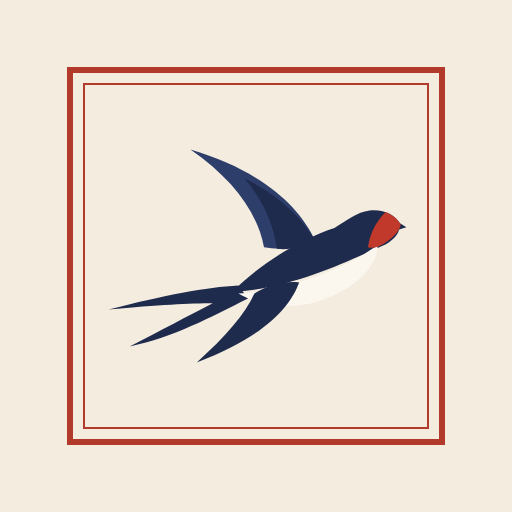
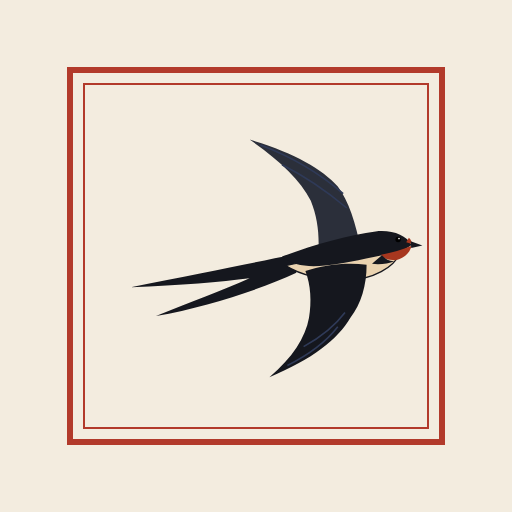
Новая ласточка: полёт с крыльями в размахе, чёрная спина, охристое брюшко; иконки; words-v15

Changed region(s): [[0.2188, 0.2812, 0.8125, 0.75]]

diff --git a/index.html b/index.html
@@ -17,15 +17,20 @@
 <title>Живые слова</title>
 </head>
 <body>
-<!-- эмблема: ласточка-касатка в полёте (тёмно-синяя спина, белое брюшко, красная маска) -->
-<svg width="0" height="0" style="position:absolute" aria-hidden="true"><symbol id="swallow" viewBox="0 0 190 135">
-  <path style="fill:var(--sw-back)" d="M84 86 C64 87 38 92 3 101 C34 98 54 97 68 97 C52 105 36 114 16 124 C44 118 66 106 90 94 Z"/>
-  <path style="fill:var(--sw-back2)" d="M132 58 C122 36 98 14 54 1 C80 19 96 40 100 62 C112 64 122 62 132 58 Z"/>
-  <path style="fill:var(--sw-back)" d="M132 58 C124 44 110 30 88 19 C100 34 106 48 108 63 C116 64 124 62 132 58 Z"/>
-  <path style="fill:var(--sw-back)" d="M80 90 C96 74 120 58 144 50 C152 45 158 40 166 39 C175 38 182 42 185 47 L189 49.5 L184.5 51 C183 56 178 60 172 62 C150 72 116 88 80 90 Z"/>
-  <path style="fill:var(--sw-belly)" d="M84 91 C108 90 138 80 160 68 C165 65 169 62 171 61 C171 74 156 90 130 97 C112 101 96 98 84 91 Z"/>
-  <path style="fill:var(--sw-back)" d="M122 84 C116 100 100 118 58 134 C76 118 88 104 94 91 C102 86 112 83 122 84 Z"/>
-  <path style="fill:var(--sw-red)" d="M176 40 C181 42 184 45 185.5 48 C184.5 52 181 56 176 59 C172 62 168 63 165 62 C166 55 169 47 176 40 Z"/>
+<!-- эмблема: ласточка-касатка в полёте, крылья в размахе (чёрная спина, охристое брюшко, красное горло) -->
+<svg width="0" height="0" style="position:absolute" aria-hidden="true"><symbol id="swallow" viewBox="22 -1 170 140">
+<path style="fill:var(--sw-back2)" d="M154 64 C151 48 147 36 141 28 C132 18 116 9 92 2 C108 13 120 24 126 36 C130 46 131 56 130 68 Z"/>
+<path fill="none" style="stroke:var(--sw-gl)" stroke-width="0.9" d="M144 32 C130 20 114 11 98 5 M146 40 C134 30 122 22 110 16"/>
+<path style="fill:var(--sw-back)" d="M116 66 C96 70 66 76 26 84 C54 83 76 81 92 79 C76 86 60 92 40 100 C68 95 96 86 118 76 Z"/>
+<path style="fill:var(--sw-belly);stroke:var(--sw-line)" stroke-width=".7" d="M176 64 C173 73 160 80 146 80 C132 80 120 77 112 72 C130 68 152 66 176 64 Z"/>
+<path style="fill:var(--sw-back)" d="M182 60.5 C179 55 171 52 162 53 C148 55 128 60 110 67 C116 72 124 73 134 72 C150 70 166 66 176 64 C178 63 180 62 182 60.5 Z"/>
+<path style="fill:var(--sw-red)" d="M182 61 C181 65 178 68 173 69 C169 69 166 68 165 66 C171 65 177 63 182 61 Z"/>
+<path style="fill:var(--sw-red)" d="M180.5 56.5 C181.5 57.5 182 58.5 182.2 60 L179 59 Z"/>
+<path style="fill:var(--sw-back)" d="M165.5 66.3 C167.5 68.6 170 69.8 172.5 69.6 C169 71 164 71.6 160 71 Z"/>
+<path style="fill:var(--sw-back)" d="M181.5 58.5 L188 60.8 L181.8 62.2 Z"/>
+<path style="fill:var(--sw-back)" d="M123 75 C133 71.5 146 70 157 71.5 C157 83 154 93 148 101 C141 113 127 124 103 134 C116 123 123 112 125 101 C126.5 92 126 83 123 75 Z"/>
+<path fill="none" style="stroke:var(--sw-gl)" stroke-width="0.9" d="M141 106 C134 115 124 122 113 127.5 M145 98 C139 106 131 112 122 117"/>
+<circle cx="174.5" cy="57.5" r="1.5" fill="#000"/><circle cx="175" cy="57" r=".45" fill="#fff"/>
 </symbol></svg>
 <main>
   <section id="tab-home"></section>

diff --git a/style.css b/style.css
@@ -1,6 +1,6 @@
 /* «Живые слова» — журнальный стиль: бумага, типографская краска, красный акцент */
 :root {
-  --bg: #f3ecdf; --surface: #f8f3e9; --surface2: #ebe2d0; --tx: #1d1a16; --muted: #6f665a; --line: #cfc4b0; --rule: #1d1a16; --sw-back: #1f2b4d; --sw-back2: #2e3e6b; --sw-belly: #fbf7ef; --sw-red: #c0392b;
+  --bg: #f3ecdf; --surface: #f8f3e9; --surface2: #ebe2d0; --tx: #1d1a16; --muted: #6f665a; --line: #cfc4b0; --rule: #1d1a16; --sw-back: #15171e; --sw-back2: #2b2f3a; --sw-gl: #2f3a58; --sw-belly: #ead3b0; --sw-line: #15171e; --sw-red: #a8371f;
   --accent: #b23a2b; --accent-tx: #f8f3e9; --accent-soft: #f1ddd3;
   --ink: #1d1a16; --ink-tx: #f3ecdf;
   --good: #3f6b4e; --good-soft: #dfe8d9; --bad: #b23a2b; --bad-soft: #f3dcd5; --warn: #9a6a1c; --warn-soft: #f1e5c8;
@@ -14,7 +14,7 @@
 :root[data-lang="de"] { --accent: #2e4a6b; --accent-soft: #dbe2ea; }
 @media (prefers-color-scheme: dark) {
   :root:not([data-theme="light"]) {
-    --bg: #1a1815; --surface: #221f1b; --surface2: #2c2823; --tx: #ece4d4; --muted: #a59a88; --line: #4a4338; --rule: #ece4d4; --sw-back: #3b4f86; --sw-back2: #4e66a6; --sw-belly: #f3ecdf; --sw-red: #d0503e;
+    --bg: #1a1815; --surface: #221f1b; --surface2: #2c2823; --tx: #ece4d4; --muted: #a59a88; --line: #4a4338; --rule: #ece4d4; --sw-back: #3b4f86; --sw-back2: #4e66a6; --sw-gl: #6d84c0; --sw-line: #f3ecdf; --sw-belly: #f3ecdf; --sw-red: #d0503e;
     --accent: #e0725f; --accent-tx: #1a1815; --accent-soft: #3a2420; --ink: #ece4d4; --ink-tx: #1a1815;
     --good: #8fbf9c; --good-soft: #233328; --bad: #e0725f; --bad-soft: #3a2420; --warn: #d9ad62; --warn-soft: #3a3020;
     --grain: rgba(255, 255, 255, .025); color-scheme: dark;
@@ -22,7 +22,7 @@
   :root:not([data-theme="light"])[data-lang="de"] { --accent: #8fb0d6; --accent-soft: #23303d; }
 }
 :root[data-theme="dark"] {
-  --bg: #1a1815; --surface: #221f1b; --surface2: #2c2823; --tx: #ece4d4; --muted: #a59a88; --line: #4a4338; --rule: #ece4d4; --sw-back: #3b4f86; --sw-back2: #4e66a6; --sw-belly: #f3ecdf; --sw-red: #d0503e;
+  --bg: #1a1815; --surface: #221f1b; --surface2: #2c2823; --tx: #ece4d4; --muted: #a59a88; --line: #4a4338; --rule: #ece4d4; --sw-back: #3b4f86; --sw-back2: #4e66a6; --sw-gl: #6d84c0; --sw-line: #f3ecdf; --sw-belly: #f3ecdf; --sw-red: #d0503e;
   --accent: #e0725f; --accent-tx: #1a1815; --accent-soft: #3a2420; --ink: #ece4d4; --ink-tx: #1a1815;
   --good: #8fbf9c; --good-soft: #233328; --bad: #e0725f; --bad-soft: #3a2420; --warn: #d9ad62; --warn-soft: #3a3020;
   --grain: rgba(255, 255, 255, .025); color-scheme: dark;

diff --git a/sw.js b/sw.js
@@ -1,4 +1,4 @@
-const CACHE = 'words-v14';
+const CACHE = 'words-v15';
 // звук хранится отдельно и не стирается при обновлении приложения
 const AUDIO = 'words-audio-v1';
 const FILES = ['./', './index.html', './style.css', './core.js', './ui.js', './study.js', './more.js', './sync.js', './config.js', './boot.js',
